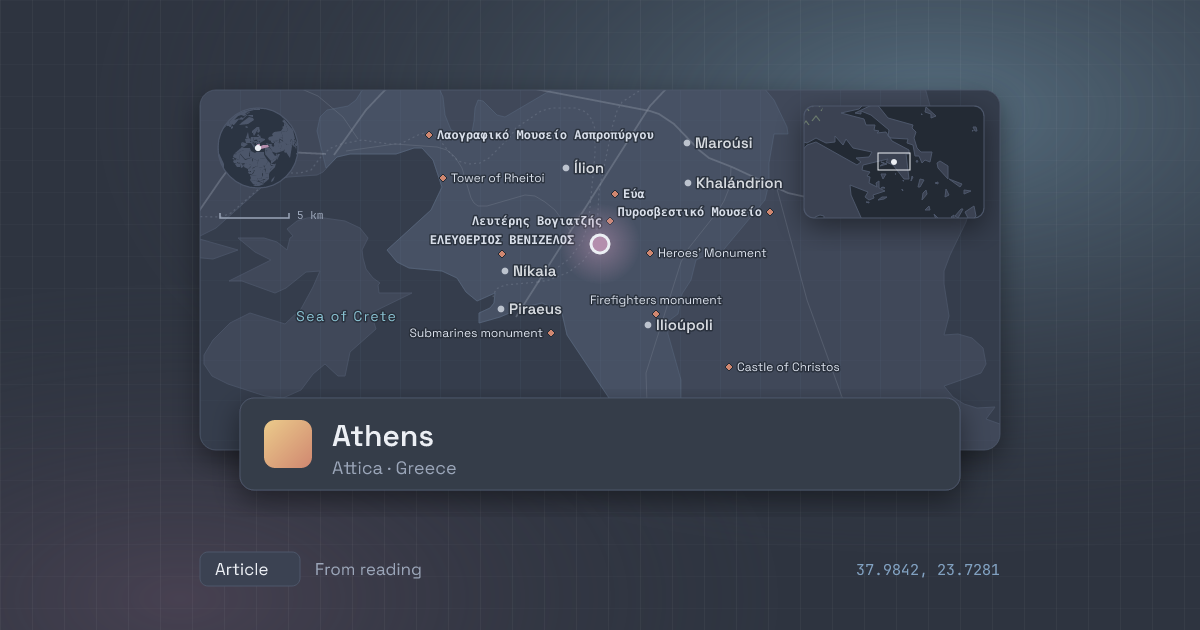
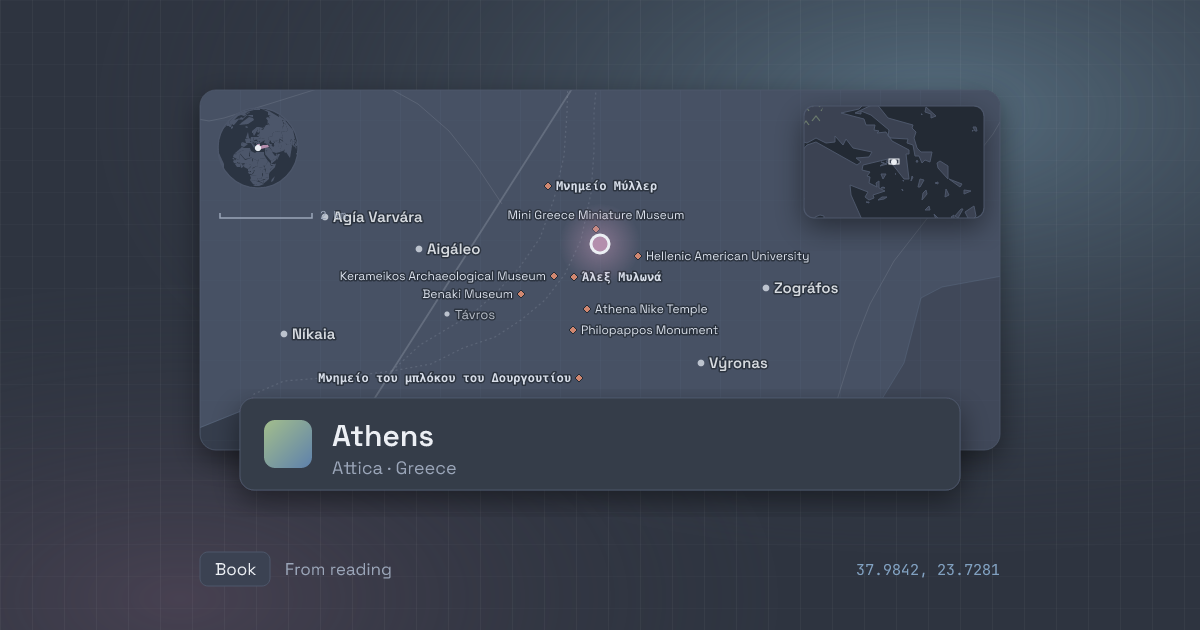
Map scan 2026-11-25 17:09 UTC: Gates of Fire (ch. 17–25), Athens section

diff --git a/content/Places/Sparta.md b/content/Places/Sparta.md
@@ -2,8 +2,8 @@
 publish: true
 title: Sparta
 created: 2026-11-21
-modified: 2026-11-25T14:13:31.237Z
-published: 2026-11-25T14:13:31.237Z
+modified: 2026-11-25T17:12:33.199Z
+published: 2026-11-25T17:12:33.199Z
 aliases:
   - Lakedaemon
   - Lacedaemon
@@ -33,18 +33,20 @@ within: "[[Greece]]"
 City-state of ancient Greece in the Eurotas valley of Laconia, in the southern Peloponnese. It is the home of the warriors whose training and departure fill the first part of _Gates of Fire_.
 
 ## At a glance
+
 | Source | Author | Role | In one line |
 |---|---|---|---|
-| Gates of Fire | Steven Pressfield | setting | Lakedaemon as Xeones knows it: the Twins grove, the Rings, Dienekes's house in Pitana, the messes and the choosing of the Three Hundred. |
+| Gates of Fire | Steven Pressfield | setting | Lakedaemon as Xeones knows it: the training groves and messes, Dienekes's house in Pitana, and the Three Hundred's march-out. |
 
 ## Sub-places
 - [[Sanctuary of Artemis Orthia]]
 
 ## Gates of Fire — Steven Pressfield (1998)
+
 Source: [Original](https://www.penguinrandomhouse.com/books/133742/gates-of-fire-by-steven-pressfield/) · [Readwise highlight](https://read.readwise.io/read/01m896j3ysddfcy9hg0s2r6r47)
 
 > I stood in the crowd before the Hellenion with Alexandros and the other boys of the training platoons, the women and children, the whole city drawn up beneath the acacias and cypresses, singing the hymn to Castor
 
 - **Role:** setting
-- **In the book:** The text calls the city Lakedaemon. Dienekes teaches the boy Alexandros about fear on the slope below the statue of Phobos, beneath the temple of Athena. The two of them sit in the myrtle grove called the Twins, which Alexandros later returns to when he defies his mother and follows the army. Alexandros runs the Big Ring past Amyklai and across the slopes of Taygetos to beat his asthma. The whole city sees Leonidas's regiments march out along the Going-Away Street to Antirhion. Field training takes place at "the Oaks" in the Otona valley, which the text does not place more exactly. After Antirhion, the Deukalion mess on the Amyklaian Way puts Alexandros through its harrowing, and Dienekes faces down Polynikes beneath the oaks outside. At night Xeo is called to Dienekes's house, "two lanes off the Eventide Road, on the west end of the village of Pitana", where the lady Arete makes him swear to protect Rooster. Rooster dresses Xeo's whipping stripes at the Anvil, a helots' grove by the Eurotas. The Herakles regiment is drilling in a dry watercourse called the Corridor, north of the village of Limnai, when the old ephor brings word that Thermopylae is chosen. In the grove behind the Deukalion mess, the krypteia's night court tries Rooster until Arete breaks in with his infant son.
-- **Why it matters:** The novel is Xeones's portrait of Spartan training and character, seen by an outsider, and this is where it is formed. The march-out shows the city sending its men to war, and the choosing scenes set up who goes to Thermopylae.
+- **In the book:** The text calls the city Lakedaemon. Dienekes teaches the boy Alexandros about fear on the slope below the statue of Phobos, beneath the temple of Athena. The two of them sit in the myrtle grove called the Twins, which Alexandros later returns to when he defies his mother and follows the army. Alexandros runs the Big Ring past Amyklai and across the slopes of Taygetos to beat his asthma. The whole city sees Leonidas's regiments march out along the Going-Away Street to Antirhion. Field training takes place at "the Oaks" in the Otona valley, which the text does not place more exactly. After Antirhion, the Deukalion mess on the Amyklaian Way puts Alexandros through its harrowing, and Dienekes faces down Polynikes beneath the oaks outside. At night Xeo is called to Dienekes's house, "two lanes off the Eventide Road, on the west end of the village of Pitana", where the lady Arete makes him swear to protect Rooster. Rooster dresses Xeo's whipping stripes at the Anvil, a helots' grove by the Eurotas. The Herakles regiment is drilling in a dry watercourse called the Corridor, north of the village of Limnai, when the old ephor brings word that Thermopylae is chosen. In the grove behind the Deukalion mess, the krypteia's night court tries Rooster until Arete breaks in with his infant son. Before the march, Arete meets Xeo at the county-day feast on Dienekes's farm, Daphneion, and offers him silver and his cousin Diomache if he will flee; he refuses. The Three Hundred muster on the plain beneath Athena of the Brazen House, and Leonidas speaks at the altar "in the long shadows cast by distant Parnon". Then the column marches out along the Aphetaid, the Going-Away Street, past the Forts, the hero shrines of Lelex and Amphiareus, the Running Course and Axiopoinos, while Agathe holds up Alexandros's infant son and Dienekes takes leave of Arete by the Hellenion.
+- **Why it matters:** The novel is Xeones's portrait of Spartan training and character, seen by an outsider, and this is where it is formed. The march-out shows the city sending its men to a fight they will not survive, and the choosing scenes set up who goes to Thermopylae.

diff --git a/content/Places/Athens.md b/content/Places/Athens.md
@@ -2,18 +2,20 @@
 publish: true
 title: Athens
 created: 2016-07-11
-modified: 2026-11-23T05:21:05.766Z
-published: 2026-11-23T05:21:05.766Z
+modified: 2026-11-25T17:12:19.658Z
+published: 2026-11-25T17:12:19.658Z
 aliases: []
 books:
   - Financial Independence is Not a Marathon
   - "A Primer on Plato: His Life, Works, and Philosophy"
+  - Gates of Fire
 categories:
   - "[[Places]]"
 color: purple
 coordinates: 37.9842,23.7281
 geo_source: Wikipedia (en)
-icon: newspaper
+icon: book
+image: Attachments/Places/Athens.svg
 location:
   - 37.9842
   - 23.7281
@@ -22,12 +24,11 @@ tags:
   - place/literary
   - source/ai/claude
 within: "[[Greece]]"
-image: Attachments/Places/Athens.svg
 ---
 
 # Athens
 
-Capital of Greece. In a personal-finance post it is the finish line of Pheidippides' legendary run from Marathon.
+Capital of Greece. In Jason's reading it is the finish line of Pheidippides' run, the city that shaped Plato, and the city the Persian army occupies while Xerxes hears the story told in _Gates of Fire_.
 
 ## At a glance
 
@@ -35,6 +36,7 @@ Capital of Greece. In a personal-finance post it is the finish line of Pheidippi
 |---|---|---|---|
 | Financial Independence is Not a Marathon | MaggieBanks | journey waypoint | Athens is the end of Pheidippides' run and the place where he dies; the author later says each financial step 'gets you closer to… |
 | A Primer on Plato: His Life, Works, and Philosophy | Brett and Kate McKay | setting | Plato is born into plague-stricken, war-torn Athens, whose oligarchic coup, the Thirty Tyrants and the restored democracy that executes… |
+| Gates of Fire | Steven Pressfield | backdrop | The emptied city falls to the Persians; archers clear the Acropolis and Xerxes plans to burn it in sight of the refugees on Salamis. |
 
 📍 [OpenStreetMap](https://www.openstreetmap.org/?mlat=37.9842&mlon=23.7281#map=11/37.9842/23.7281) · [Google Maps](https://www.google.com/maps/search/?api=1&query=37.9842,23.7281)
 
@@ -64,3 +66,12 @@ Source: [Original](https://www.artofmanliness.com/2016/07/10/a-primer-on-plato-h
 - **Role:** setting
 - **In the article:** Plato is born into plague-stricken, war-torn Athens, whose oligarchic coup, the Thirty Tyrants and the restored democracy that executes Socrates in 399 BC turn him from politics toward philosophy. Socrates and young followers talk in the agora and near the gymnasium.
 - **Why it matters:** The city's turmoil is presented as the formative cause of Plato's rejection of democracy and his philosophy.
+
+## Gates of Fire — Steven Pressfield (1998)
+Source: [Original](https://www.penguinrandomhouse.com/books/133742/gates-of-fire-by-steven-pressfield/) · [Readwise highlight](https://read.readwise.io/read/01m89v2p2kvx6h7c3twzbhnjwq)
+
+> The advance force of Persian infantry and cavalry, fifty thousand strong, had entered Athens and taken possession of the city.
+
+- **Role:** backdrop
+- **In the book:** In the frame story, Xerxes's council hears that the Athenians have abandoned the city and crossed the strait to Troezen and Salamis, where they huddle as refugees on the hillsides. A small band holding the Acropolis, trusting the oracle of the "wooden wall", is shot down by imperial archers. The Empire's fires now burn on the Acropolis, and the king plans to enter the city next day and raze its temples, with the smoke visible to the refugees across the strait. Xeones also mentions a recent embassy to Athens with Dienekes, when he could have looked for his cousin Diomache there.
+- **Why it matters:** The fall of Athens sets the stakes of the frame: the pass has been lost, and Xerxes is weighing whether to push on into the Peloponnese. It is reported, not seen. The book's action happens elsewhere, so the city is backdrop rather than setting.

diff --git a/content/Places/Three-Cornered Way (Gates of Fire).md b/content/Places/Three-Cornered Way (Gates of Fire).md
@@ -2,8 +2,8 @@
 publish: true
 title: Three-Cornered Way (Gates of Fire)
 created: 2026-11-21
-modified: 2026-11-25T14:14:29.982Z
-published: 2026-11-25T14:14:29.982Z
+modified: 2026-11-25T17:12:41.329Z
+published: 2026-11-25T17:12:41.329Z
 aliases:
   - Three-Cornered Way
   - Three Corners
@@ -34,16 +34,18 @@ image: Attachments/Places/Three-Cornered Way (Gates of Fire).svg
 A crossroads on the border between Attica and Megara, placed here near [[Eleusis]], where the Athens, Delphi and Corinth roads split. In _Gates of Fire_ it is where the orphaned Xeo and his cousin Diomache part for good.
 
 ## At a glance
+
 | Source | Author | Role | In one line |
 |---|---|---|---|
-| Gates of Fire | Steven Pressfield | turning point | Diomache takes the Athens road and twelve-year-old Xeo the Isthmus road toward Sparta, splitting their two dogs. |
+| Gates of Fire | Steven Pressfield | turning point | Xeo and Diomache part here as children; years later Xerxes camps here and hears Xeones's story. |
 
 ## Gates of Fire — Steven Pressfield (1998)
+
 Source: [Original](https://www.penguinrandomhouse.com/books/133742/gates-of-fire-by-steven-pressfield/) · [Readwise highlight](https://read.readwise.io/read/01m89gtgbbe62rvkf21svcjqvj)
 
 > Ten dawns later Diomache and I stood at the Three-Cornered Way, on the frontier of Attika and Megara, where the Athens road breaks off to the east, the Sacred Road to Delphi and the west and the Corinthian southwest, to the Isthmus and the Peloponnese.
 
 - **Role:** turning point
-- **In the book:** After burning the pyre of their guardian Bruxieus in the hills, the two cousins walk down for a week to the crossroads. They watch the traffic, Diomache talks of wanting a husband and a home, and they divide the dogs: Lucky goes with her, Happy stays with Xeo. "Diomache took her road and I took mine. She was fifteen. I was twelve."
-- **Why it matters:** It ends Xeo's childhood and sends him alone toward Lakedaemon. His later search for Diomache in Athens starts from this parting.
-- **Where is it?:** ⚠ The text names no town. Its clues: "the frontier of Attika and Megara", with roads east to Athens, west to Delphi by the Sacred Road, and southwest to Corinth and the Isthmus. Those three roads met in the Eleusis plain, so the pin is at Eleusis. The actual Attic–Megarian border lay a little further west, toward Megara, which is the main alternative.
+- **In the book:** After burning the pyre of their guardian Bruxieus in the hills, the two cousins walk down for a week to the crossroads. They watch the traffic, Diomache talks of wanting a husband and a home, and they divide the dogs: Lucky goes with her, Happy stays with Xeo. "Diomache took her road and I took mine. She was fifteen. I was twelve." Years later, after Thermopylae, the Persian army camps at the same crossroads, "two hours’ march northwest of Athens". In the royal pavilion there, Xerxes holds his war council and has the wounded Xeones tell his story. Xeones points to the axe still lodged in the tent's ridgepole, thrown at him during the Spartan night raid.
+- **Why it matters:** It ends Xeo's childhood and sends him alone toward Lakedaemon, and it is where the whole frame narrative is told. The book's story begins and is recounted at this one spot.
+- **Where is it?:** ⚠ The text names no town. Its clues: "the frontier of Attika and Megara", with roads east to Athens, west to Delphi by the Sacred Road, and southwest to Corinth and the Isthmus, and a camp "two hours’ march northwest of Athens". Those three roads met in the Eleusis plain, northwest of Athens, so the pin is at Eleusis. The actual Attic–Megarian border lay a little further west, toward Megara, which is the main alternative.

diff --git a/content/Places/Thermopylae.md b/content/Places/Thermopylae.md
@@ -2,8 +2,8 @@
 publish: true
 title: Thermopylae
 created: 2026-11-21
-modified: 2026-11-25T11:16:48.579Z
-published: 2026-11-25T11:16:48.579Z
+modified: 2026-11-25T17:12:50.014Z
+published: 2026-11-25T17:12:50.014Z
 aliases:
   - Hot Gates
   - The Hot Gates
@@ -33,15 +33,17 @@ image: Attachments/Places/Thermopylae.svg
 Narrow coastal pass and hot-springs site in central Greece, between the mountains and the sea. It is the "Hot Gates" that _Gates of Fire_ builds toward from its first pages.
 
 ## At a glance
+
 | Source | Author | Role | In one line |
 |---|---|---|---|
-| Gates of Fire | Steven Pressfield | subject | The pass and spa Xeones describes to Xerxes: Phokian Wall, Skyllian fountain, the Spartan camp. |
+| Gates of Fire | Steven Pressfield | setting | The pass the allies fortify and hold: the rebuilt Phokian Wall, the Narrows "dance floor" and the first day's fight against the Medes. |
 
 ## Gates of Fire — Steven Pressfield (1998)
+
 Source: [Original](https://www.penguinrandomhouse.com/books/133742/gates-of-fire-by-steven-pressfield/) · [Readwise highlight](https://read.readwise.io/read/01m896htyeqztfjbmd36t83r8a)
 
 > There is a double spring sacred to Persephone, called the Skyllian fountain, at the foot of the bluff beside the Middle Gate. Upon this site the Spartans established their camp, between the Phokian Wall and the hillock where the final tooth-and-nail struggle took place.
 
-- **Role:** subject
-- **In the book:** Xeones, the captured squire, explains the place to the Great King early in the novel. He describes the "hot gates" named for the thermal springs and the narrow defiles, the spa with its groves, pool houses and vendors' booths, and the old Phokian Wall, which the Spartans rebuilt. He also describes the Skyllian fountain by the Middle Gate where they camped, and the hillock of the last stand. Every chapter of his life story is told as "the road which found its end at the Hot Gates."
-- **Why it matters:** It is the book's destination and title. The whole narrative is a survivor's account of how the defenders came to stand here, so no other setting would work.
+- **Role:** setting
+- **In the book:** Xeones, the captured squire, first describes the place to the Great King: the "hot gates" named for the thermal springs, the spa with its bathhouses, the old Phokian Wall and the Skyllian fountain by the Middle Gate where the Spartans camped. The allies arrive on the sixth day out of Lakedaemon, through the village of Alpenoi, where locals have set up stalls for the army. Masons wreck the track toward Trachis and carve a message to Xerxes's Greek conscripts: "fight badly." Leonidas starts rebuilding the Phokian Wall by carrying the first boulder himself ("a wall of stone will not preserve Hellas, but a wall of men"). On the first day of battle, the Thespaians hold the "dance floor" of the Narrows between the mountain wall and the cliffs over the gulf, with marker stones (Lizard, Crown and Lion Stone) setting the lines. Xerxes watches from a throne on the ridge above. The Spartans rout the Median lancers, and farther back along the track Medes are shoved off the cliff into the sea. Dienekes loses an eye, and the allies give thanks at the spring behind the sallyport.
+- **Why it matters:** It is the book's destination and title, and from the middle of the novel on its main stage. The whole narrative is a survivor's account of how the defenders came to stand and fight here, in a gap narrow enough for a few thousand to hold, so no other setting would work.
